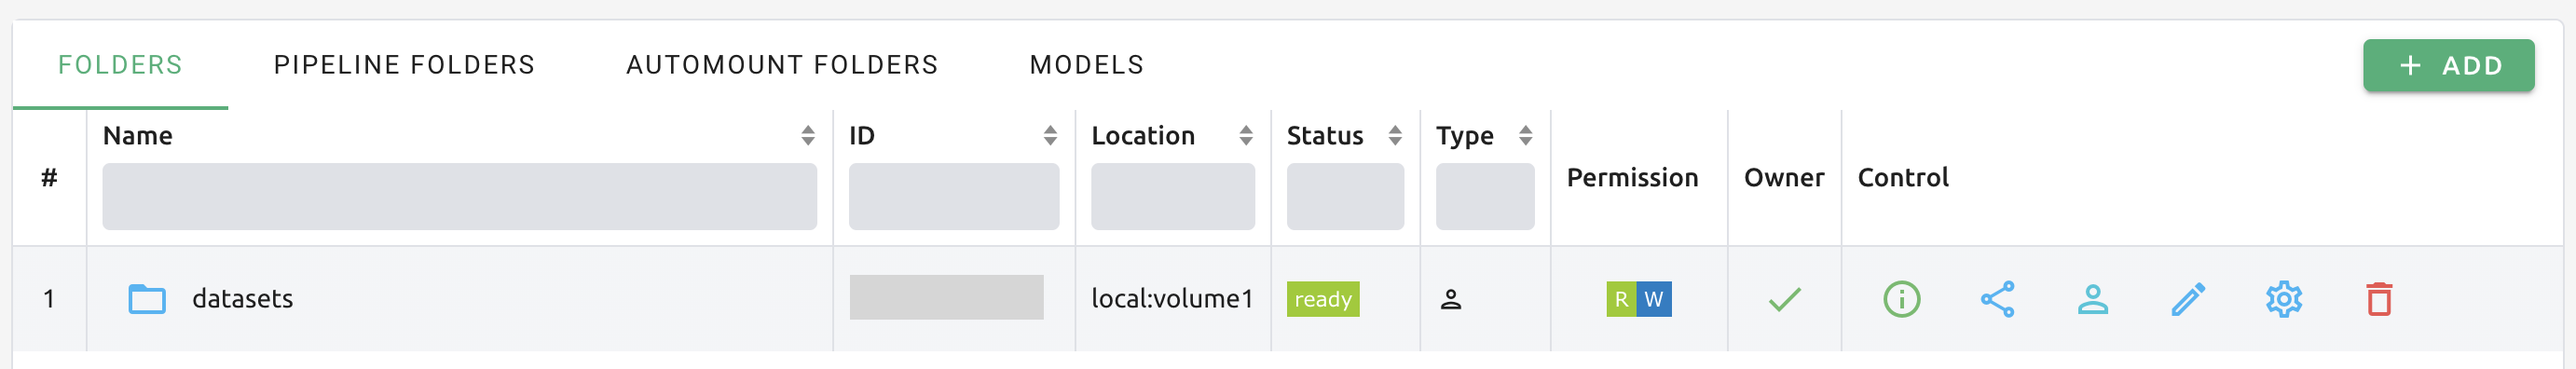
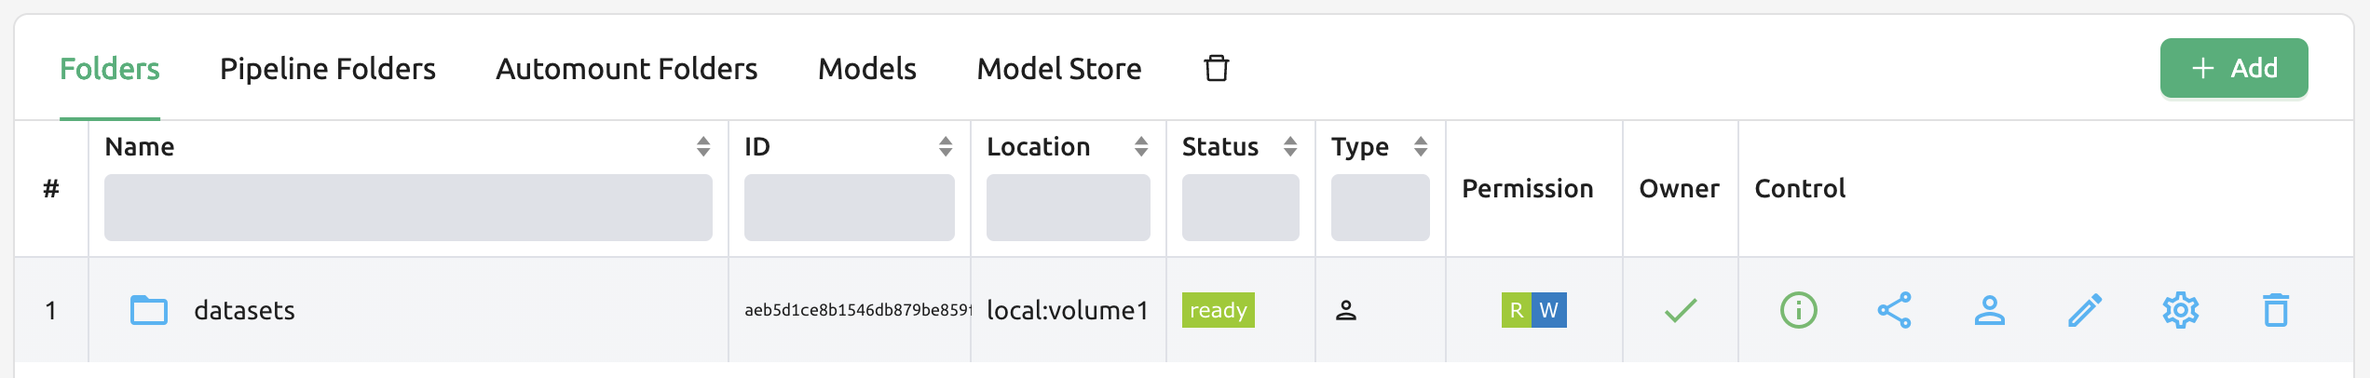
docs: update folder page

diff --git a/docs/vfolder/vfolder.rst b/docs/vfolder/vfolder.rst
@@ -140,16 +140,16 @@ rename dialog will appear. Write new folder name and then click 'UPDATE' button.
 Delete folder
 -------------
 
-If you have permission to delete the storage folder, you can delete it by
-clicking the 'trash can' button in the control column. By clicking the button, 
-the system will automatically move the folder to trash can with following notification, 
+If you have permission to delete the storage folder, you can send the folder to the 'trash can' 
+tab by clicking the 'trash can' button. Clicking the 'trash can' button in the Control column 
+will open the following modal.
 
-.. image:: delete_notification.png
+.. image:: move_to_trash.png
    :width: 400
    :align: center
    :alt: Folder delete notification modal
 
-and the folder status appearing in the status column will be changed to ``delete-pending``. 
+Pressing the 'MOVE TO TRASH' button will change the folder's status to ``delete-pending``.
 
 .. image:: trash_bin_table.png
    :width: 800
@@ -200,13 +200,35 @@ For more detailed information on the usage of Automount folders, refer to
 .. image:: vfolder_automount_folders.png
    :alt: Automount folders
 
-Model folders
--------------
+Models
+------
+In the 'Models' tab, you can easily serve models. You can store desired data, such as
+input data for model serving and model training data, in the model folder. To quickly
+start the service, click the 'Model serving' button in the control column. Let's try
+pressing the 'Model serving' button in the 'model_folder' folder.
 
+.. image:: hover_model_serving.png
+   :alt: Hover model serving
+
+As shown in 'Model Storage To Mount', the 'model_folder' folder is automatically mounted
+to enable starting a new service.
+
+.. image:: start_new_service_with_mounted_folder.png
+   :alt: Start new service with mounted folder
+
+If you want to learn more about model serving, please refer to :ref:`this link<model-serving>`.
+
+
+Model store
+-----------
 From the 24.03, Backend.AI supports a new feature called 'Model Store'.
-The newly added "Models" tab offers users a unified model store interface, enabling
-easy management and access to various machine learning and deep learning models.
-The features and usage of the "Models" tab will be updated in the 24.03 documentation.
+The model store refers to a storage space and service that stores, manages, searches, and utilizes
+various machine learning and deep learning models. 
+
+.. image:: model_store.png
+   :alt: Model store
+
+
 
 Using FileBrowser
 -----------------

diff --git a/docs/model_serving/model_serving.rst b/docs/model_serving/model_serving.rst
@@ -1,3 +1,5 @@
+.. _model-serving:
+
 =============
 Model Serving
 =============
